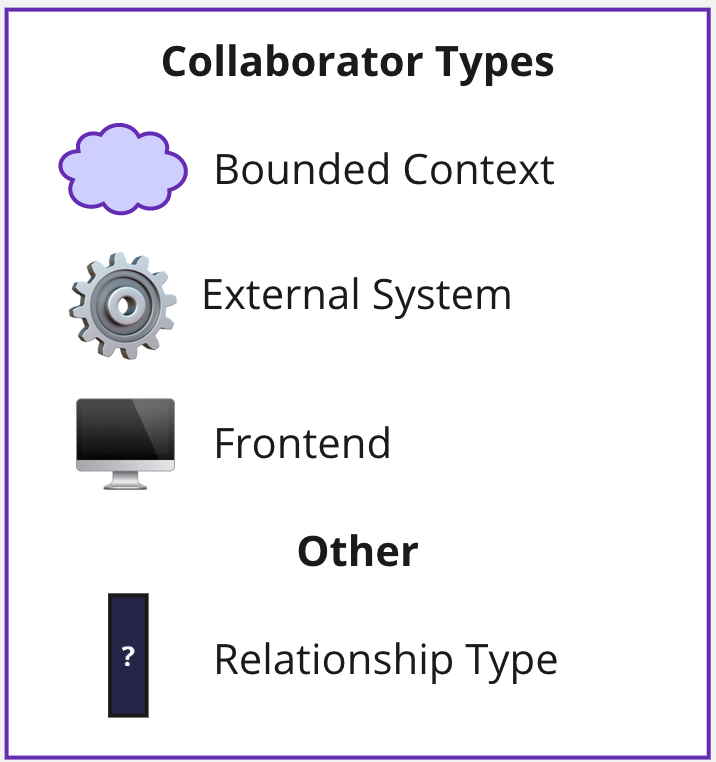
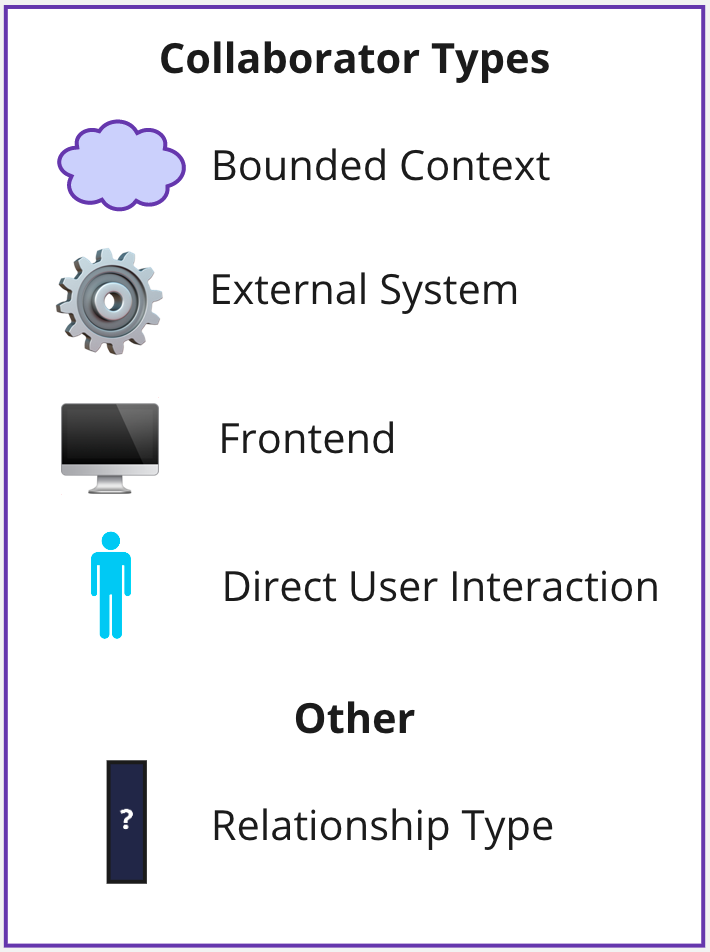
add direct user interaction collaborator type

diff --git a/README.md b/README.md
@@ -73,6 +73,8 @@ The word message is used in the general sense and not tied to any implementation
 
 Collaborators are other systems or sub-systems that send messages to this context. They can be other bounded contexts, frontends (web or mobile), or something else.
 
+If the Bounded Context owns the user interface (e.g. [micro-frontend](https://martinfowler.com/articles/micro-frontends.html)) then the collaborator type is direct user interaction.
+
 ![Collaborator types](resources/collaborator-types.jpeg)
 
 #### Relationship Type
